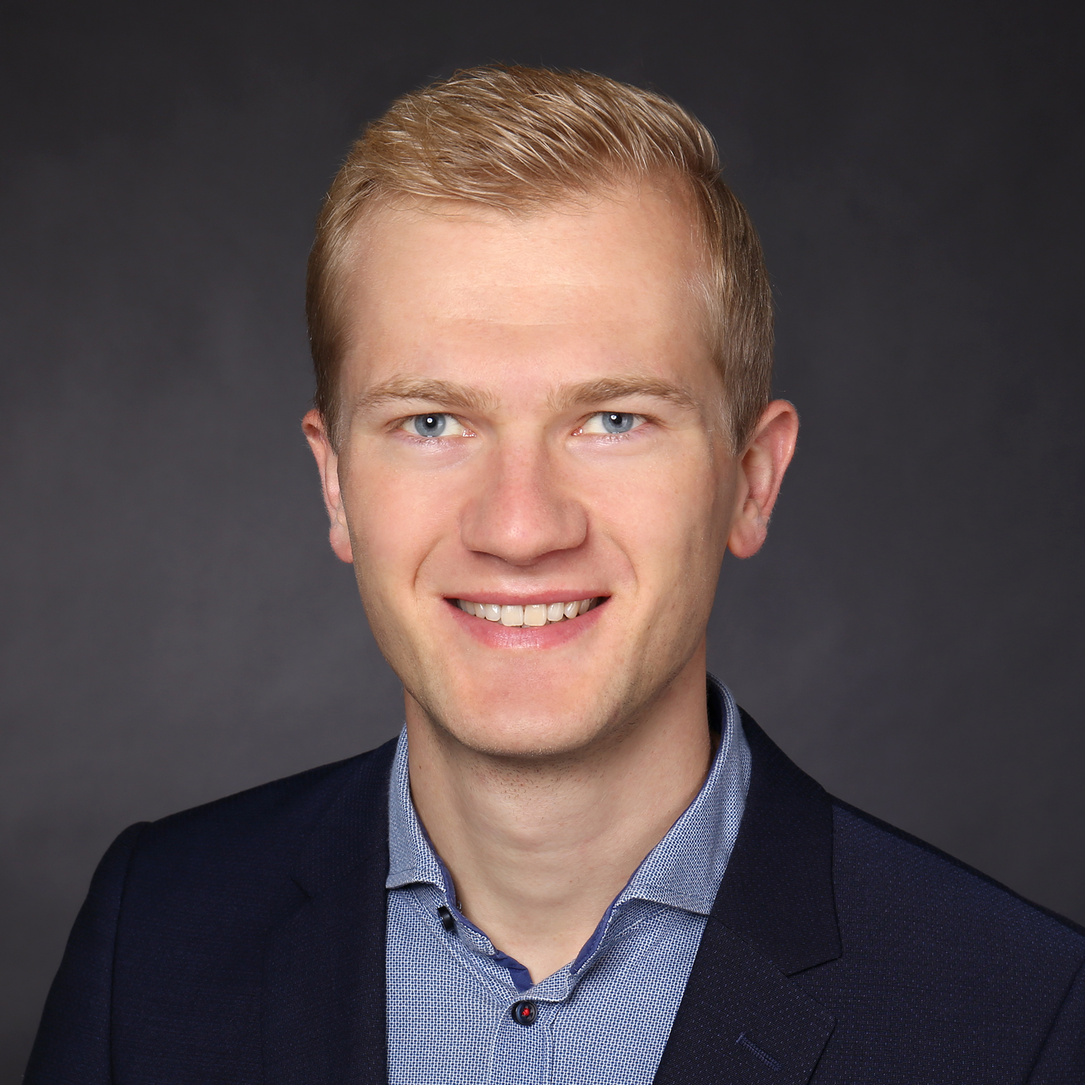
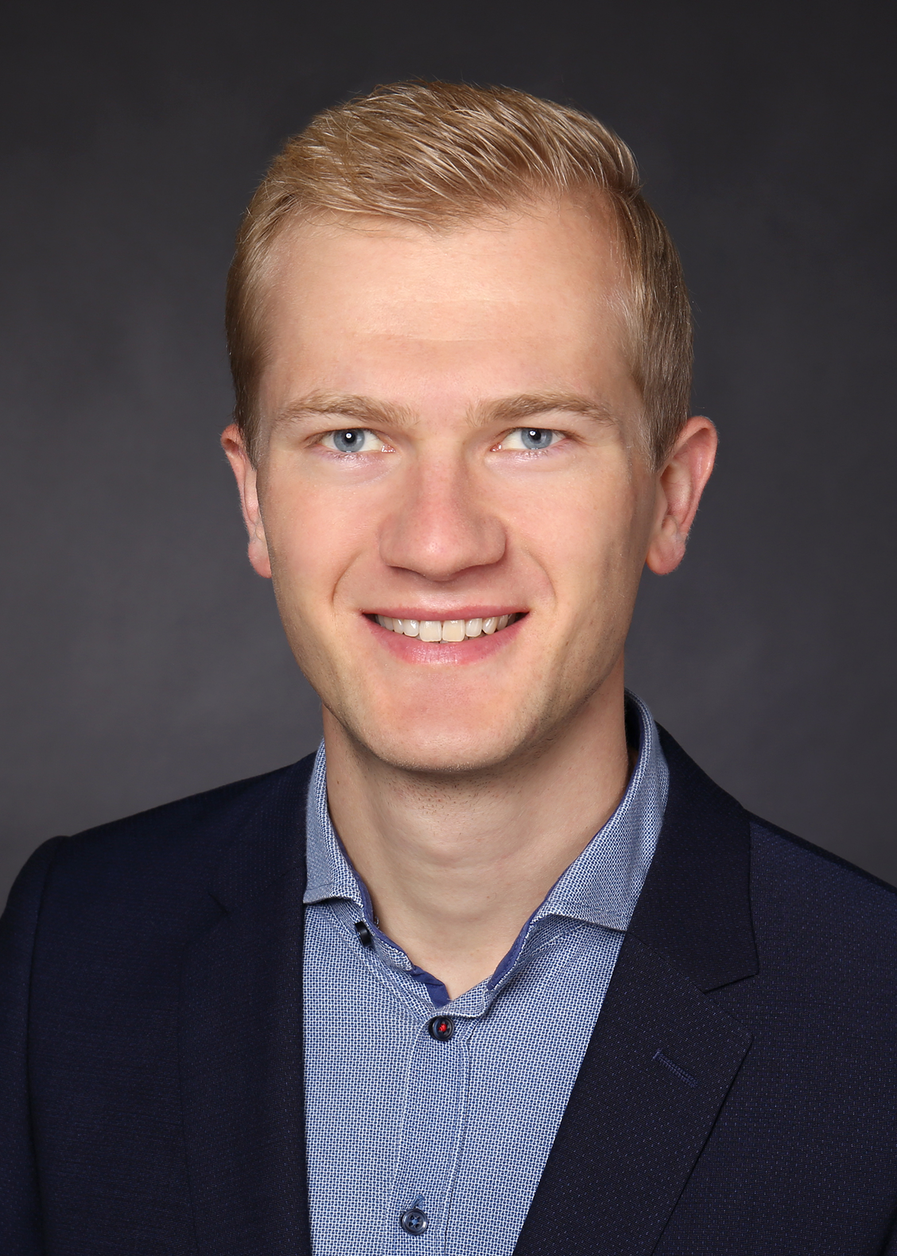
Mixed updates
- Pic Tim
- CV all
- Tally integration
- Intro text

diff --git a/lecturer/index.html b/lecturer/index.html
@@ -60,22 +60,25 @@
     <div class="flex-container">
         <div class="content-wrap about_content">
             <p style="margin-left:24px">
-                <strong>Prof. Dr. Markus Frey</strong> &emsp; Markus promovierte im Bereich der 
-                mathematischen Optimierung an der Technischen Universität München. 
+                <strong>Prof. Dr. Markus Frey</strong> &emsp; Markus promovierte im Bereich 
+                der mathematischen Optimierung an der Technischen Universität München. 
                 Nach einem Research Fellow am Massachusetts Institute of Technology 
                 wechselte Markus 2015 als Business Analyst in der globalen Funktionsabteilung 
                 Advanced Business Analytics bei der BASF SE. Unter Verwendung von modernen 
-                analytischen Modellen Entwickelte er Lösungen für die Bedürfnisse der Kunden, 
-                um so neue Erkenntnisse zu gewinnen und um bessere Geschäftsentscheidungen zu treffen. 
-                Für ein innovativen mathematischen Supply-Chain-Modell zur strategischen und taktischen 
-                Entscheidungsfindung erhielten Markus und sein Team den FICO Decision Award für Künstliche 
-                Intelligenz, Maschinelles Lernen und Optimierung. Im Jahr 2018 nahm er ein Stellenangebot
-                der Hilti AG als Solution Architect für Business Analytics an, um Advanced Business 
-                Analytics in der Firma etablieren und die digitale Transformation zu begleiten. 
-                Im Jahr 2022 wurde Markus zum Manager für digitale Kompetenz und Kultur befördert, 
-                um digitale Initiativen zu koordinieren. Er leitete den Arbeitsbereich Digitalisierung 
-                und Business Analytics für die Hilti Global Logistics-Strategie. Seit 2023 ist 
-                Markus Frey ordentlicher Professor für Advanced Business Analytics an der 
+                analytischen Modellen entwickelte er Lösungen für die Bedürfnisse der Kunden, 
+                um so neue Erkenntnisse zu gewinnen und um bessere Geschäftsentscheidungen zu 
+                treffen. Für ein innovatives, mathematisches Supply-Chain-Modell zur 
+                strategischen und taktischen Entscheidungsfindung erhielten Markus 
+                und sein Team den FICO Decision Award für Künstliche Intelligenz, 
+                Maschinelles Lernen und Optimierung. Im Jahr 2018 nahm er ein 
+                Stellenangebot der Hilti AG als Solution Architect für Business 
+                Analytics an, um Advanced Business Analytics in der Firma zu etablieren 
+                und die digitale Transformation zu begleiten. Im Jahr 2022 wurde Markus 
+                zum Manager für digitale Kompetenz und Kultur befördert, um digitale 
+                Initiativen zu koordinieren. Er leitete den Arbeitsbereich Digitalisierung 
+                und Business Analytics für die Hilti Global Logistics-Strategie. Seit 2023 
+                ist Markus Frey ordentlicher Professor für Advanced Business 
+                Analytics an der
                 <a href="https://www.thi.de/personen/prof-dr-markus-frey/">Technischen Hochschule Ingolstadt</a>.
             </p>
         </div>
@@ -95,16 +98,17 @@
                 Rechnens, von der Modellierung physikalischer Systeme bis zur Unterstützung von 
                 Entscheidungsprozessen durch mathematische Optimierung. Er hat Übersichtsartikel zu 
                 diesem Thema, etwa 150 Forschungsarbeiten in Astronomie und angewandter Mathematik 
-                sowie mehrere Bücher über gemischt-ganzzahlige Optimierung und über bedeckungsveränderliche 
+                sowie Bücher über gemischt-ganzzahlige Optimierung in der Praxis - darunter das 
+                Standardwerk "Business Optimization Using Mathematical Programming" und über bedeckungsveränderliche 
                 Doppelsterne verfasst. Die Veröffentlichungen können <a href=" https://josefkallrath.github.io/publications.html">hier</a> 
                 heruntergeladen werden.
 
-                JK ist Spezialist für die Modellierung und Lösung von gemischt-ganzzahligen 
+                Josef Kallrath ist Spezialist für die Modellierung und Lösung von gemischt-ganzzahligen 
                 linearen (MILP) und (nicht-konvexen) nichtlinearen Optimierungsproblemen (MINLP) 
                 und ein erfahrener Berater mit fundierten Kenntnissen in der Anwendung von 
                 Optimierungsprodukten und Modellierungssprachen wie GAMS, Mosel und Lindo. 
                 Seit 2002 - ab 2019 gemeinsam mit Dr. Jens Schulz und Prof.  Dr. Julia Kallrath - 
-                leitet er den <a href="http://www.gor-ev.de/arbeitsgruppen/praxis-der-mathematischen-optimierung">Arbeitsgruppe „Praxis der mathematischen Optimierung"</a> der Deutschen 
+                leitet er die <a href="http://www.gor-ev.de/arbeitsgruppen/praxis-der-mathematischen-optimierung">Arbeitsgruppe „Praxis der mathematischen Optimierung"</a> der Deutschen 
                 Gesellschaft für Operations Research.
                 
                 Er bietet Beratungsdienste für eine Vielzahl von Branchen an, 
@@ -125,18 +129,25 @@
     <div class="flex-container">
         <div class="content-wrap about_content">
             <p style="margin-left:24px">
-                <strong>Dr. Tim Varelmann</strong> &emsp; Dr. Tim Varelmann hat Computational Engineering 
-                Science an der RWTH Aachen, der University of Queensland und dem 
-                Massachusetts Institute of Technology studiert. 
-                Anschließend promovierte er in Systemverfahrenstechnik an der RWTH und der UT Austin. 
-                Seine Expertise für effiziente Modellierung, Optimierung unter 
-                Unsicherheit und maßgeschneiderte Dekompositionsalgorithmen bringt er seit 2022 
-                selbstständig mit seiner Marke ‚Bluebird Optimization‘ in Branchen wie Energie, 
-                Produktionsplanung und Supply Chain Management ein. 
-                Außerdem ist er als Ansprechpartner für den Lernpfad der Initiative Optimization4ALL 
-                engagiert, welche Optimierung für Studenten, geschäftliche Nutzer und Gründer 
-                zugänglich macht. Tim verbringt seine Freizeit am liebsten auf dem Fußballplatz, 
-                mit Strategiespielen, oder beim Kochen und Verspeisen leckerer Gerichte in guter Gesellschaft.
+                <strong>Dr. Tim Varelmann</strong> &emsp; Tim Varelmann hat Computational 
+                Engineering Science an der RWTH Aachen, der University of Queensland und 
+                dem Massachusetts Institute of Technology studiert. Anschließend promovierte 
+                er in Systemverfahrenstechnik an der RWTH und der UT Austin. Seine Forschung dreht 
+                sich darum, wie produzierende Industrie und Energienetze enger kooperieren können, 
+                ohne die Vertraulichkeit sensibler Anlagenmodelle zu gefährden, um so die Energiewende 
+                voran zu bringen. Die von ihm entwickelten Algorithmen ermöglichen industriellen 
+                Akteuren ihre Flexibilität gleichzeitig auf mehreren Märkten zu monetarisieren, 
+                beispielsweise dem Spotmarkt für Strom und durch das Vorhalten von Regelreserve. 
+                Auch zum globalen MINLP-Löser MAiNGO leistete er einen Beitrag. TV bringt seine 
+                Expertise für effiziente Modellierung, Optimierung unter Unsicherheit und maßgeschneiderte 
+                Dekompositionsalgorithmen seit 2022 selbstständig mit seiner Marke 
+                <a href=https://www.bluebirdoptimization.com>Bluebird Optimization </a>
+                in Branchen wie Energie, Produktionsplanung und Supply Chain Management ein. 
+                Außerdem ist er als Ansprechpartner für den Lernpfad der Initiative 
+                <a href=https://optimization4all.com>Optimization4ALL</a> 
+                engagiert, welche Optimierung für Studenten, geschäftliche Nutzer und Gründer zugänglich 
+                macht. Tim verbringt seine Freizeit am liebsten auf dem Fußballplatz, mit Strategiespielen, 
+                oder beim Kochen und Verspeisen leckerer Gerichte in guter Gesellschaft.
             </p>
         </div>
         <div class="about_img_container" style="margin : 40px;">

diff --git a/registration/index.html b/registration/index.html
@@ -15,10 +15,21 @@
     <meta name="viewport" content="width=device-width, initial-scale=1">
     <title>Registrierung</title>
 
-    <meta name="viewport" content="width=device-width, initial-scale=1.0, maximum-scale=1.0, user-scalable=0">
+    <meta name="viewport" content="width=device-width, 
+    initial-scale=1.0, maximum-scale=1.0, user-scalable=0">
     <title>Registration form</title>
     <script 
         async src="https://tally.so/widgets/embed.js">
+    </script>
+    <script>
+    var d=document,w="https://tally.so/widgets/embed.js",
+    v=function(){
+        "undefined"!=typeof Tally?Tally.loadEmbeds():d.querySelectorAll("iframe[data-tally-src]:not([src])").forEach((function(e){e.src=e.dataset.tallySrc}))};
+        if("undefined"!=typeof Tally)v();
+        else if(d.querySelector('script[src="'+w+'"]')==null){
+            var s=d.createElement("script");
+            s.src=w,s.onload=v,s.onerror=v,d.body.appendChild(s);
+            }
     </script>
 
     <style>
@@ -126,8 +137,11 @@
     </p >
     <div >
         <p>
-            <iframe data-tally-src="https://tally.so/r/wMgV0g?transparentBackground=1" 
-                title="Registration form">
+            <iframe 
+                data-tally-src="https://tally.so/embed/3qgKjY?alignLeft=1&hideTitle=1&transparentBackground=1&dynamicHeight=1" 
+                loading="lazy" width="100%" height="1056" 
+                frameborder="0" marginheight="0" marginwidth="0" 
+                title="dEU-Seminar: Datenbasiert gute Entscheidungen treffen">
             </iframe>
         </p>
     </div>

diff --git a/index.html b/index.html
@@ -94,12 +94,13 @@
     </nav>
 
     <!--Haubtteil-->
-    <h2>Unsere Ziele</h2>
+    <h2>Wer sind wir</h2>
     <div>
         <p >
             Das Lösen von herausforderenden Entscheidungsfragungen aus Industrie und Wirtschaft mit Hilfe von datenbasierten Verfahren 
             ist unsere Leidenschaft. Zusammen haben wir uns über mehrere Jahrzente sowohl in der freien Wirtschaft als auch in der Forschung mit 
-            datenbasierte Entscheidungsproblemen beschäftigt. Nach unserer Erfahrung haben viele Unternehmen 
+            datenbasierte Entscheidungsproblemen beschäftigt. Dabei waren wir nicht nur Berater für unsere Kunden, sondern auch Entwickler und Implentierer
+            von datenbasierten Lösungen (mehr über uns finden Sie <a href="lecturer/index.html" >hier</a>). Nach unserer Erfahrung haben viele Unternehmen 
             in diesem Bereich großes Potential und wir möchten dabei helfen, dieses zu heben. Mit dem Seminar wollen wir nicht nur unser Wissen und unsere Erfahrungen auf dem Gebiet datenbasierte Entscheidung teilen,
             sondern gehen auch individuel auf <strong>Ihre Fragen und Herausforderungen ein</strong> und erarbeiten mit Ihnen Zusammen die Antworten. 
             
